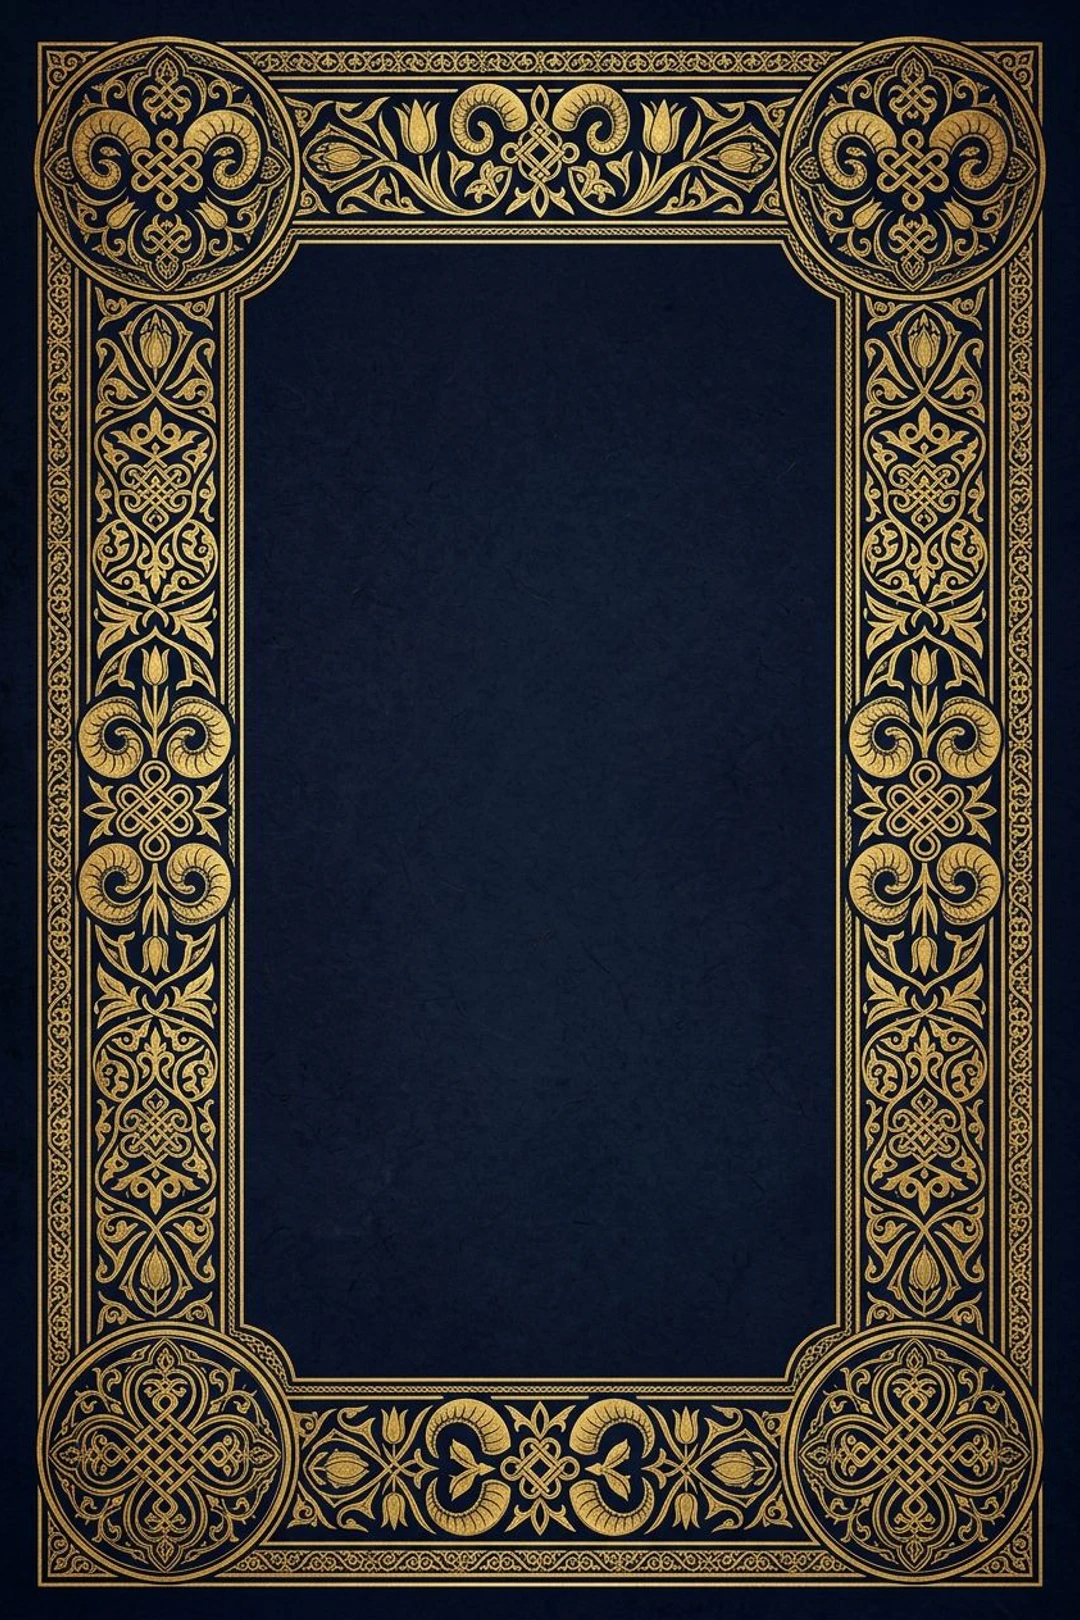
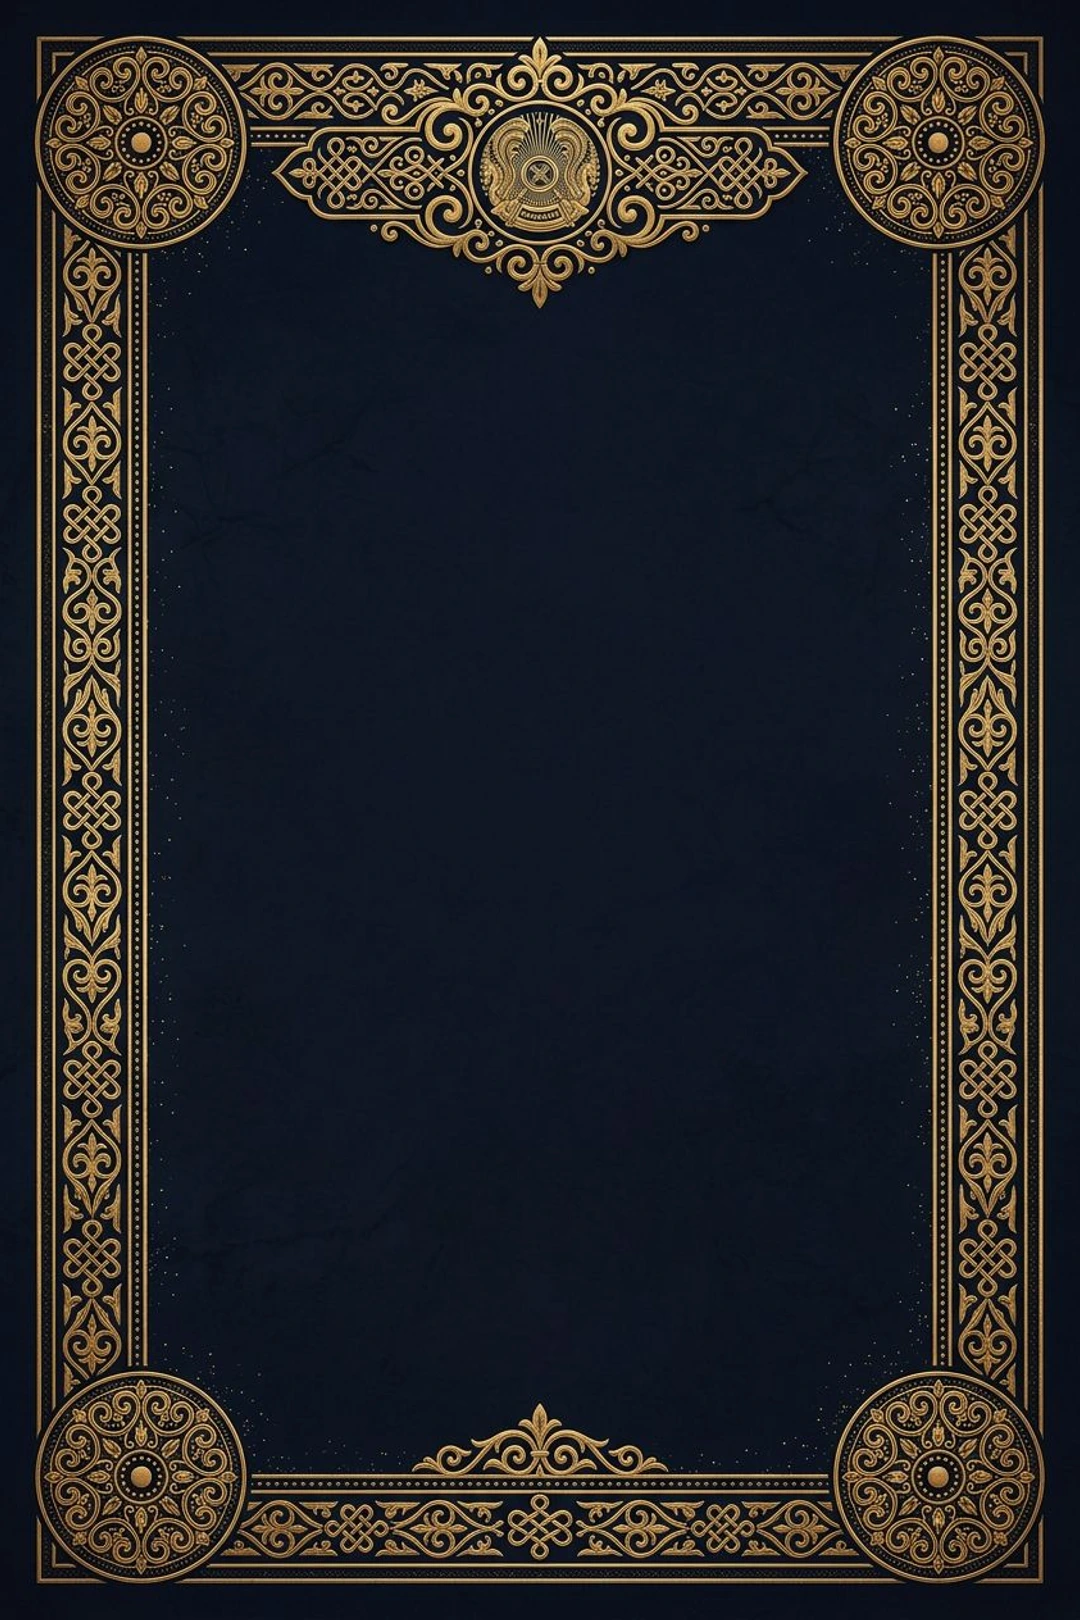
Fix canvas export: thin border template, visible text, reduced tamga
- Replace thick ornamental template with thin-border version (40px sides)
- Move header below top cartouche (y=120), add double-draw glow for title
- Make drawHeader return Y position for dynamic layout flow
- Reduce tamga watermark opacity (0.09→0.04) to avoid covering content
- Increase text contrast: zhuz label, uran, generation labels
- Footer positioned above bottom ornament
- Stronger gold glow on all text elements

diff --git a/src/lib/canvas/share-image.ts b/src/lib/canvas/share-image.ts
@@ -116,62 +116,75 @@ function drawHeader(
   zhuzDisplay: string,
   ruName: string,
   locale: string,
-): void {
+): number {
   const cx = W / 2;
+  let y = 120; // Start below template top cartouche
 
-  // "Шежіре" — large title
+  // "Шежіре" — large title with strong glow
   ctx.save();
-  ctx.font = '700 52px "Cormorant Garamond", Georgia, serif';
+  ctx.font = '700 56px "Cormorant Garamond", Georgia, serif';
   ctx.textAlign = 'center';
   ctx.textBaseline = 'top';
   ctx.fillStyle = GOLD;
-  ctx.shadowColor = 'rgba(200,168,75,0.5)';
-  ctx.shadowBlur = 30;
-  ctx.fillText('Шежіре', cx, 62);
+  ctx.shadowColor = 'rgba(200,168,75,0.7)';
+  ctx.shadowBlur = 40;
+  ctx.fillText('Ш Е Ж І Р Е', cx, y);
+  // Double-draw for stronger glow
+  ctx.shadowBlur = 20;
+  ctx.fillText('Ш Е Ж І Р Е', cx, y);
   ctx.restore();
+  y += 72;
 
   // Subtitle: locale label
-  const subLabel = locale === 'kk' ? 'ШЕЖІРЕ' : 'ГЕНЕАЛОГИЧЕСКОЕ ДРЕВО';
+  const subLabel = locale === 'kk' ? 'ГЕНЕАЛОГИЯЛЫҚ АҒАШ' : 'ГЕНЕАЛОГИЧЕСКОЕ ДРЕВО';
   ctx.save();
-  ctx.font = '400 13px Inter, sans-serif';
+  ctx.font = '400 14px Inter, sans-serif';
   ctx.textAlign = 'center';
   ctx.textBaseline = 'top';
   ctx.fillStyle = GOLD;
-  ctx.globalAlpha = 0.45;
-  ctx.letterSpacing = '4px';
-  ctx.fillText(subLabel, cx, 122);
+  ctx.globalAlpha = 0.6;
+  ctx.letterSpacing = '5px';
+  ctx.fillText(subLabel, cx, y);
   ctx.restore();
+  y += 30;
 
   // Divider
-  drawDiamondDivider(ctx, cx, 152, W - 120, GOLD);
+  drawDiamondDivider(ctx, cx, y, W - 160, GOLD);
+  y += 28;
 
   // Zhuz name
   if (zhuzDisplay) {
     ctx.save();
-    ctx.font = '400 18px Inter, sans-serif';
+    ctx.font = '600 20px Inter, sans-serif';
     ctx.textAlign = 'center';
     ctx.textBaseline = 'top';
     ctx.fillStyle = GOLD;
-    ctx.globalAlpha = 0.65;
-    ctx.fillText(zhuzDisplay.toUpperCase(), cx, 172);
+    ctx.globalAlpha = 0.8;
+    ctx.letterSpacing = '2px';
+    ctx.fillText(zhuzDisplay.toUpperCase(), cx, y);
     ctx.restore();
+    y += 30;
   }
 
   // Ru name — prominent
   if (ruName) {
     ctx.save();
-    ctx.font = '700 32px "Cormorant Garamond", Georgia, serif';
+    ctx.font = '700 36px "Cormorant Garamond", Georgia, serif';
     ctx.textAlign = 'center';
     ctx.textBaseline = 'top';
     ctx.fillStyle = GOLD;
-    ctx.shadowColor = 'rgba(200,168,75,0.35)';
-    ctx.shadowBlur = 15;
-    ctx.fillText(ruName, cx, 198);
+    ctx.shadowColor = 'rgba(200,168,75,0.5)';
+    ctx.shadowBlur = 20;
+    ctx.fillText(ruName, cx, y);
     ctx.restore();
+    y += 48;
   }
 
   // Second divider
-  drawDiamondDivider(ctx, cx, 244, W - 200, GOLD);
+  drawDiamondDivider(ctx, cx, y, W - 240, GOLD);
+  y += 24;
+
+  return y;
 }
 
 /* ── Tree ────────────────────────────────────────────────────────── */
@@ -299,11 +312,12 @@ export function drawTreeOnCanvas(
     ctx.textBaseline = 'top';
     ctx.letterSpacing = '1.5px';
     if (isUser) {
-      ctx.fillStyle = 'rgba(30,12,0,0.75)';
+      ctx.fillStyle = 'rgba(30,12,0,0.85)';
     } else if (hasFill) {
-      ctx.fillStyle = 'rgba(200,168,75,0.7)';
+      ctx.fillStyle = GOLD;
+      ctx.globalAlpha = 0.85;
     } else {
-      ctx.fillStyle = 'rgba(255,255,255,0.25)';
+      ctx.fillStyle = 'rgba(255,255,255,0.35)';
     }
     ctx.fillText(node.kaz.toUpperCase(), x + 20, y + 11);
     ctx.restore();
@@ -374,24 +388,26 @@ function drawInfoSection(
   if (uran) {
     const uranLabel = locale === 'kk' ? 'ҰРАНЫ' : 'УРАН';
     ctx.save();
-    ctx.font = '700 11px Inter, sans-serif';
+    ctx.font = '700 12px Inter, sans-serif';
     ctx.textAlign = 'center';
     ctx.textBaseline = 'top';
     ctx.fillStyle = GOLD;
-    ctx.globalAlpha = 0.5;
-    ctx.letterSpacing = '3px';
+    ctx.globalAlpha = 0.7;
+    ctx.letterSpacing = '4px';
     ctx.fillText(uranLabel, cx, y);
     ctx.restore();
-    y += 22;
+    y += 24;
 
     ctx.save();
-    ctx.font = 'italic 700 28px "Cormorant Garamond", Georgia, serif';
+    ctx.font = 'italic 700 32px "Cormorant Garamond", Georgia, serif';
     ctx.textAlign = 'center';
     ctx.textBaseline = 'top';
     ctx.fillStyle = GOLD;
-    ctx.globalAlpha = 0.9;
-    ctx.shadowColor = 'rgba(200,168,75,0.4)';
-    ctx.shadowBlur = 18;
+    ctx.shadowColor = 'rgba(200,168,75,0.6)';
+    ctx.shadowBlur = 24;
+    ctx.fillText(`«${uran}!»`, cx, y);
+    // Double draw for glow
+    ctx.shadowBlur = 10;
     ctx.fillText(`«${uran}!»`, cx, y);
     ctx.restore();
   }
@@ -405,17 +421,20 @@ function drawFooter(
   H: number,
 ): void {
   const cx = W / 2;
+  const footerY = H - 80; // Above bottom ornament
 
-  drawDiamondDivider(ctx, cx, H - 104, W - 120, GOLD);
+  drawDiamondDivider(ctx, cx, footerY - 20, W - 160, GOLD);
 
   ctx.save();
-  ctx.font = '300 16px Inter, sans-serif';
+  ctx.font = '400 15px Inter, sans-serif';
   ctx.textAlign = 'center';
   ctx.textBaseline = 'top';
   ctx.fillStyle = GOLD;
-  ctx.globalAlpha = 0.4;
-  ctx.letterSpacing = '3px';
-  ctx.fillText('SKEZIRE.KZ', cx, H - 70);
+  ctx.globalAlpha = 0.6;
+  ctx.letterSpacing = '4px';
+  ctx.shadowColor = 'rgba(200,168,75,0.3)';
+  ctx.shadowBlur = 8;
+  ctx.fillText('SKEZIRE.KZ', cx, footerY);
   ctx.restore();
 }
 
@@ -589,18 +608,17 @@ export async function generateShareImage(
     drawDoubleBorder(ctx, W, H, GOLD);
   }
 
-  // --- 2. Tamga watermark ---
+  // --- 2. Tamga watermark (very subtle) ---
   drawTamgaWatermark(ctx, tamga || '', W / 2, H / 2);
 
-  // --- 5. Header ---
-  drawHeader(ctx, W, zhuzDisplay, ruName, locale);
+  // --- 3. Header ---
+  const headerEndY = drawHeader(ctx, W, zhuzDisplay, ruName, locale);
 
-  // --- 6. AI Portrait (if available) ---
-  let treeStartY = 262;
+  // --- 4. AI Portrait (if available) ---
+  let treeStartY = headerEndY;
   if (aiImg) {
-    const portraitY = 268;
     treeStartY = drawAiPortrait(
-      ctx, aiImg, W / 2, portraitY,
+      ctx, aiImg, W / 2, headerEndY,
       data.name, (data as unknown as { birthYear?: string }).birthYear || '',
     );
     // Divider after portrait

diff --git a/src/lib/canvas/utils.ts b/src/lib/canvas/utils.ts
@@ -44,13 +44,13 @@ export function drawTamgaWatermark(
   ctx.font = '420px Georgia, serif';
 
   // Glow layer
-  ctx.globalAlpha = 0.04;
+  ctx.globalAlpha = 0.02;
   ctx.shadowColor = GOLD;
-  ctx.shadowBlur = 80;
+  ctx.shadowBlur = 60;
   ctx.fillText(tamga, cx, cy);
 
   // Main layer
-  ctx.globalAlpha = 0.09;
+  ctx.globalAlpha = 0.04;
   ctx.shadowBlur = 0;
   ctx.fillText(tamga, cx, cy);
 
